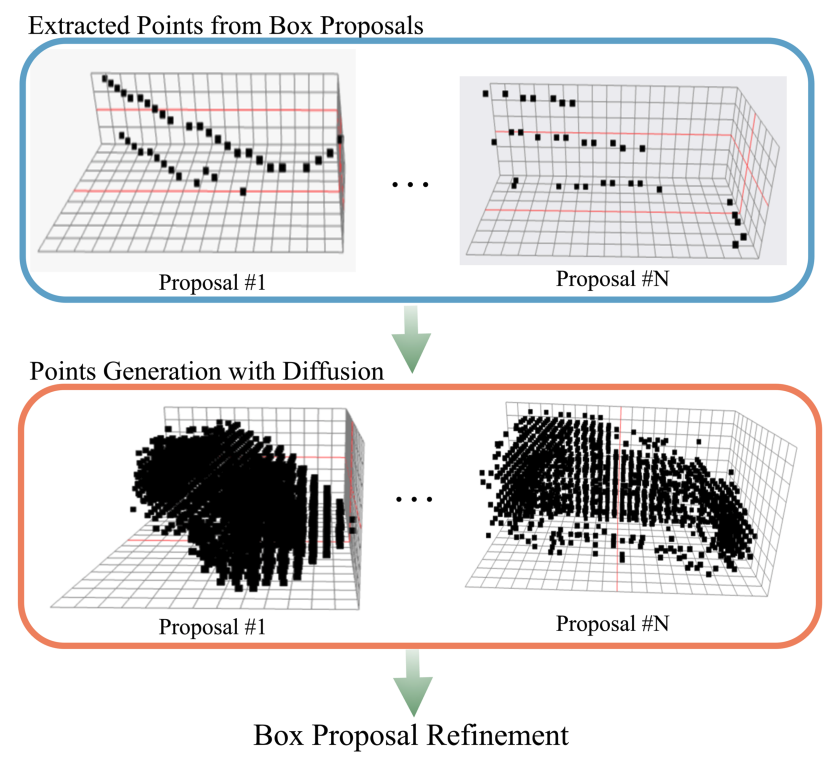
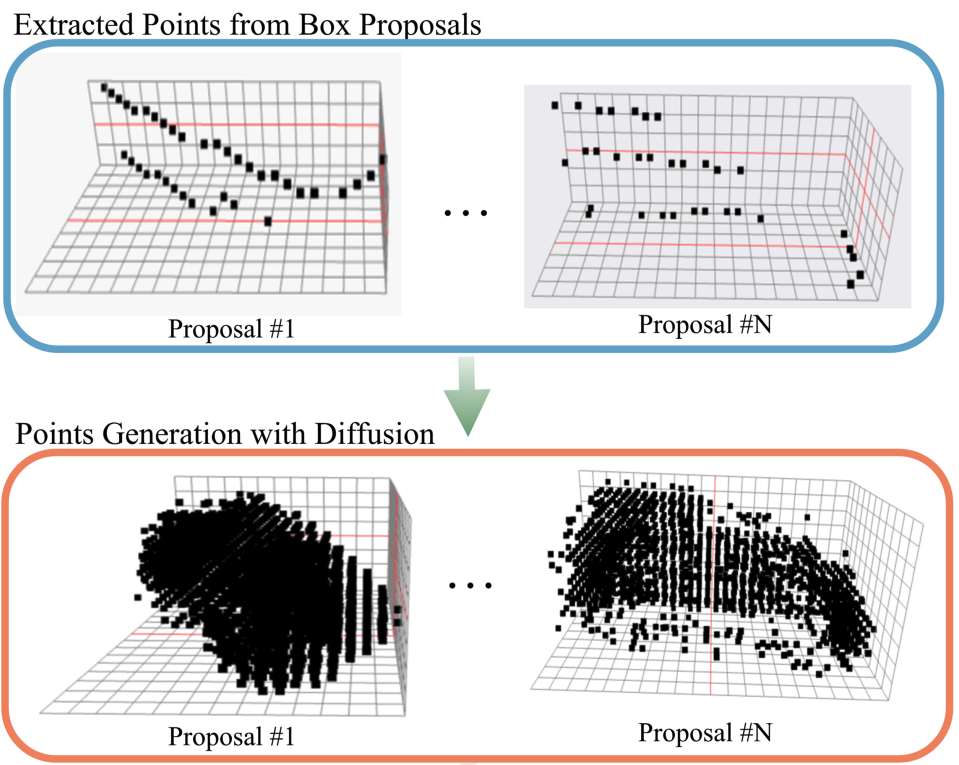
index

diff --git a/index.html b/index.html
@@ -89,7 +89,7 @@
       transform: translateY(-2px);
     }
     .pub-thumb { 
-      flex: 0 0 260px;  /* wider thumbnail column */
+      flex: 0 0 220px;  /* wider thumbnail column */
     }
     .pub-thumb img {
       max-width: 100%;
@@ -184,7 +184,7 @@
 
         <div class="publication">
           <div class="pub-thumb">
-            <img src="assets/diff_refine2.png" alt="Thumbnail for GroupEXP-DA paper">
+            <img src="assets/diff_refine.png" alt="Thumbnail for GroupEXP-DA paper">
           </div>
           <div class="pub-details">
             <div class="title">DiffRefine: Diffusion-based Proposal Specific Point Cloud Densification
